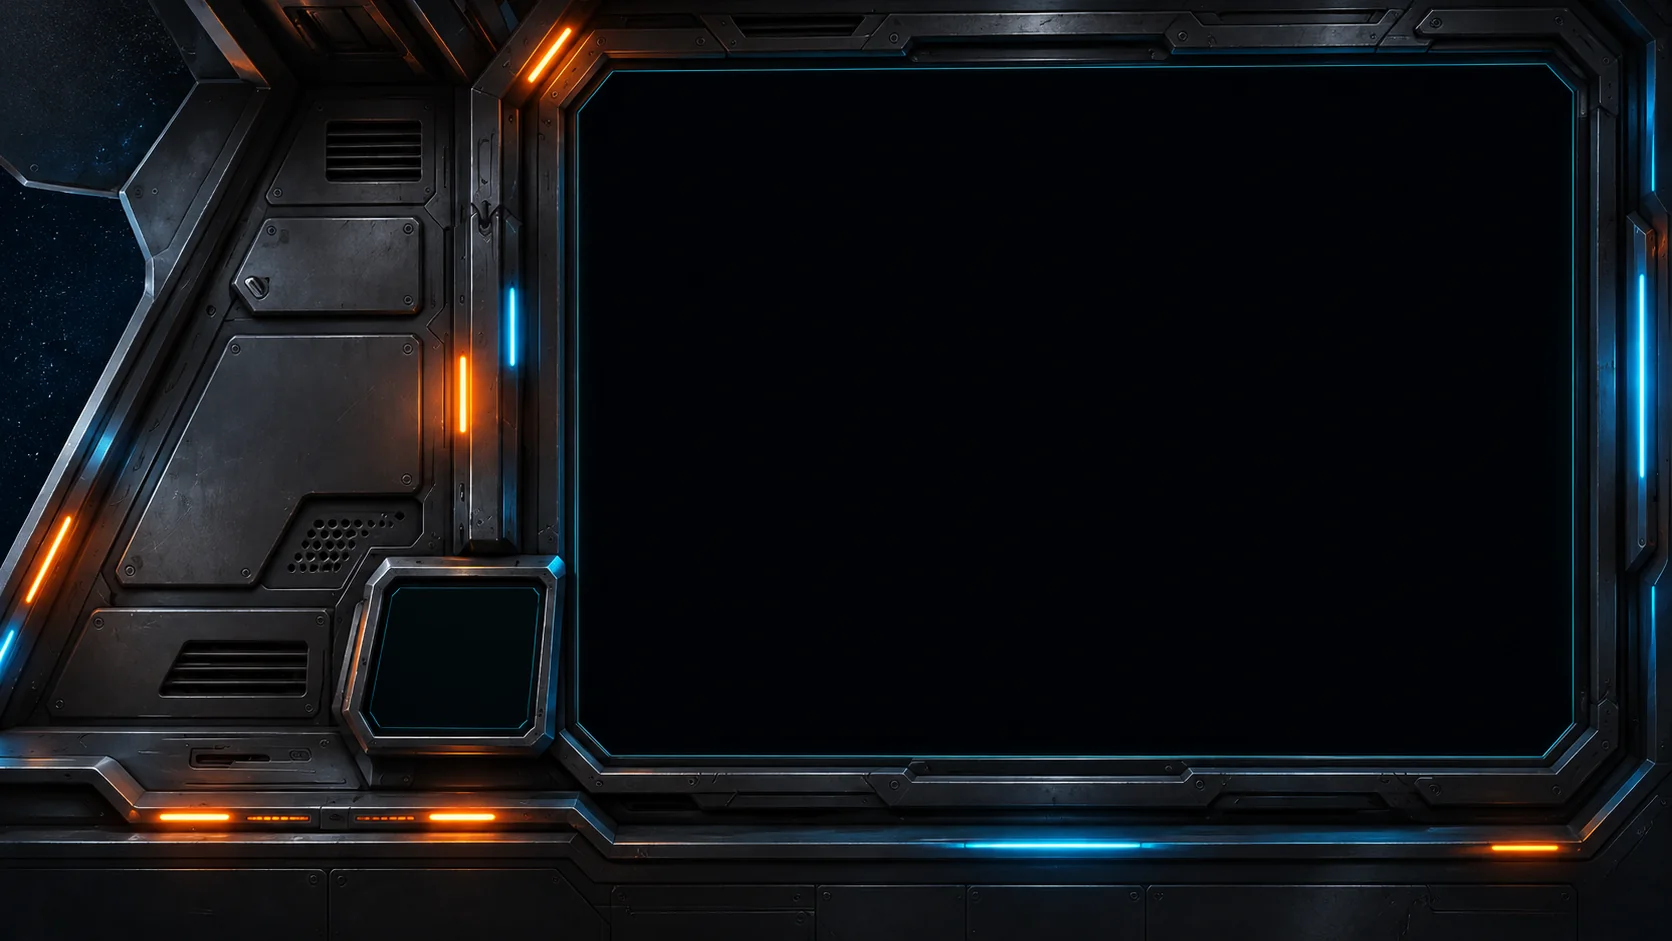
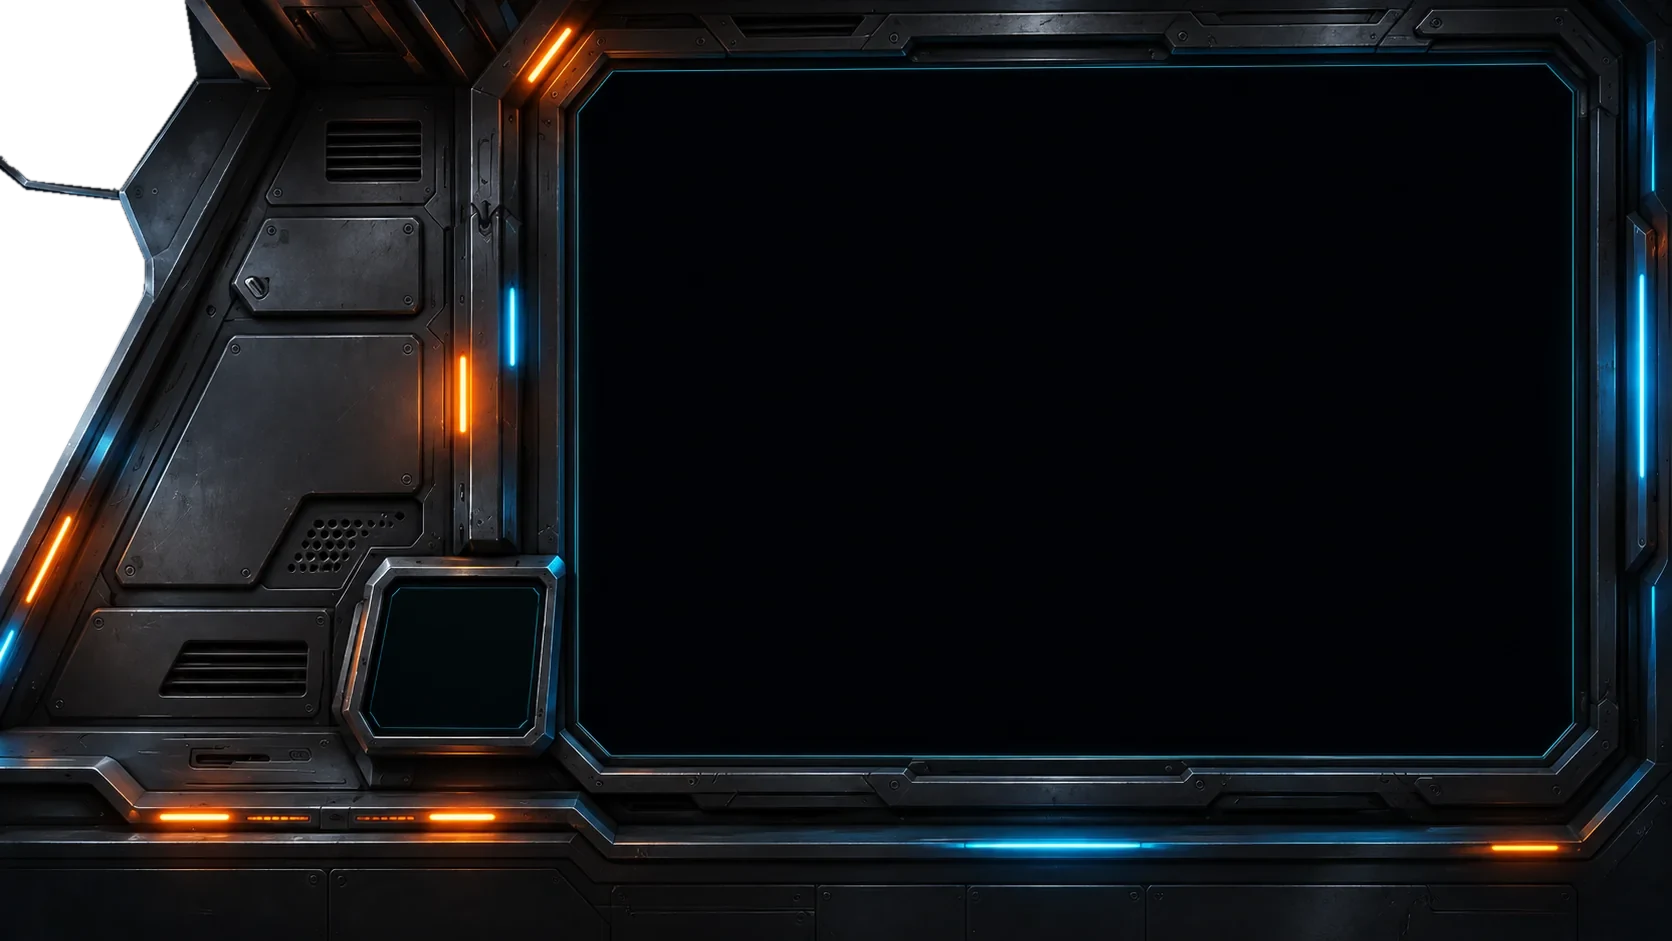
feat: the field room's side window shows the real sky from the cockpit map

Changed region(s): [[0.0, 0.0, 0.1244, 0.6164]]

diff --git a/frontend/components/Field.tsx b/frontend/components/Field.tsx
@@ -1,5 +1,5 @@
 "use client";
-import { Component, useEffect, useRef, useState, type PointerEvent, type ReactNode, type Ref } from "react";
+import { Component, useEffect, useRef, useState, type CSSProperties, type PointerEvent, type ReactNode, type Ref } from "react";
 import { sfx } from "@/lib/audio";
 import {
   ArrowLeft,
@@ -73,6 +73,7 @@ import {
 import FieldOverlays from "./FieldOverlays";
 import dynamic from "next/dynamic";
 import ConsoleSelect from "./ConsoleSelect";
+import type { SkySnapshot } from "./Sky";
 import EpochDiffTriplet from "./science/EpochDiffTriplet";
 import ModelsAndMetricsPanel from "./science/ModelsAndMetricsPanel";
 import RgbCompositeView from "./science/RgbCompositeView";
@@ -130,6 +131,7 @@ export default function Field({
   powered = true,
   initialSize = "medium",
   initialEpoch = 0,
+  skyBackdrop = null,
 }: {
   query: Query;
   target: Target | null;
@@ -148,6 +150,13 @@ export default function Field({
    * turns towards or away from it; switching it on plays the boot sequence.
    */
   powered?: boolean;
+  /**
+   * A still of the cockpit's live sky map. The room art's side window is cut out, so this sky
+   * shows through it, mirrored: its right edge (where the cockpit view ends) meets the room's
+   * left edge, and the space carries on round the corner as the camera turns. Without it (a
+   * field opened from a link, no map yet) the painted starfield stays.
+   */
+  skyBackdrop?: SkySnapshot | null;
   /** Field size and epoch index to open first (from a shared link). */
   initialSize?: string;
   initialEpoch?: number;
@@ -547,6 +556,20 @@ export default function Field({
   return (
     <section className={s.scene} data-console="field" aria-labelledby="field-title">
       <div className={s.stage}>
+        <div
+          className={s.space}
+          aria-hidden="true"
+          data-live={skyBackdrop ? "" : undefined}
+          style={
+            skyBackdrop
+              ? ({
+                  "--sky": `url("${skyBackdrop.url}")`,
+                  "--sky-w": `${skyBackdrop.width}px`,
+                  "--sky-h": `${skyBackdrop.height}px`,
+                } as CSSProperties)
+              : undefined
+          }
+        />
         <img className={s.room} src="/panels/console-bg.webp" alt="" aria-hidden="true" draggable={false} />
         {/* The wall tablet shows the observed object as a spinning 3D model (an illustration). */}
         <StarHologram target={target} reduced={reduced} />

diff --git a/frontend/components/Nebo.tsx b/frontend/components/Nebo.tsx
@@ -13,7 +13,7 @@ import Cockpit from "./Cockpit";
 import ChatPanel from "./ChatPanel";
 import { GENERAL_ROOM } from "@/lib/chat";
 import HomeScene from "./HomeScene";
-import type { SkyCommand, SkyLayers, SkyView } from "./Sky";
+import type { SkyCommand, SkyLayers, SkySnapshot, SkyView } from "./Sky";
 import { launchWarp, warp } from "@/lib/warp";
 import NeboBoot from "./NeboBoot";
 const Sky = dynamic(() => import("./Sky"), {
@@ -31,6 +31,9 @@ export default function Nebo() {
     [prefs, setPrefs] = useState(defaults),
     [loaded, setLoaded] = useState(false),
     [systemReduced, setSystemReduced] = useState(false);
+  // A still of the live sky map, shown through the analysis room's side window.
+  const [skyBackdrop, setSkyBackdrop] = useState<SkySnapshot | null>(null);
+  const captureSky = useRef<(() => Promise<SkySnapshot | null>) | null>(null);
   const [targets, setTargets] = useState<Target[]>([]),
     [catalogError, setCatalogError] = useState(""),
     [catalogLoading, setCatalogLoading] = useState(false),
@@ -222,6 +225,11 @@ export default function Nebo() {
   }
   const go = contextSafe((destination: View) => {
     if (departing.current || destination === view || turn) return;
+    // The analysis room's side window looks out on the same sky the cockpit was showing: take a
+    // still of the live map now, before the camera turns (it arrives within a frame or two).
+    if (view === "Explore" && destination === "Field") {
+      void captureSky.current?.().then((still) => still && setSkyBackdrop(still));
+    }
     const motion =
       loaded && !reduced && !matchMedia("(prefers-reduced-motion: reduce)").matches;
     // Cockpit ⇄ analysis screen is one room: the camera turns instead of cutting.
@@ -453,6 +461,7 @@ export default function Nebo() {
                 initialEpoch={link?.query === query ? link.epoch : undefined}
                 speed={prefs.speed}
                 reduced={reduced}
+                skyBackdrop={skyBackdrop}
               />
             )}
           </>
@@ -481,6 +490,7 @@ export default function Nebo() {
                 />
               )}
               <Sky
+                onCapture={(capture) => (captureSky.current = capture)}
                 targets={targets}
                 selected={selected}
                 coordinates={skyCoordinates}

diff --git a/frontend/components/Sky.tsx b/frontend/components/Sky.tsx
@@ -17,7 +17,11 @@ type Viewer = {
   getRaDec: () => [number, number];
   showCooGrid: () => void;
   hideCooGrid: () => void;
+  // aladin.js 3.9: renders the HiPS layers (plus the reticle, and the logo unless logo: false).
+  getViewDataURL: (options: { format?: string; logo?: boolean }) => Promise<string>;
 };
+/** A still of the sky map as the cockpit shows it, with the map's on-screen size in CSS px. */
+export type SkySnapshot = { url: string; width: number; height: number };
 /** What the map is showing right now: its centre and horizontal field of view, in degrees. */
 export type SkyView = { ra: number; dec: number; fov: number };
 export type SkyLayers = { markers: boolean; grid: boolean };
@@ -43,6 +47,7 @@ export default function Sky({
   layers,
   onSelect,
   onView,
+  onCapture,
 }: {
   targets: Target[];
   selected: Target | null;
@@ -51,6 +56,11 @@ export default function Sky({
   layers: SkyLayers;
   onSelect: (t: Target) => void;
   onView: (view: SkyView) => void;
+  /**
+   * Hands the page a way to take a still of the real sky map (for the analysis room's side
+   * window); called with null while the map is not ready.
+   */
+  onCapture?: (capture: (() => Promise<SkySnapshot | null>) | null) => void;
 }) {
   const host = useRef<HTMLDivElement>(null),
     fieldOfView = useRef(180),
@@ -70,6 +80,23 @@ export default function Sky({
     [retry, setRetry] = useState(0);
   callback.current = onSelect;
   viewCallback.current = onView;
+  const captureCallback = useRef(onCapture);
+  captureCallback.current = onCapture;
+  useEffect(() => {
+    if (!ready) return;
+    const take = async (): Promise<SkySnapshot | null> => {
+      const node = host.current;
+      if (!viewer.current || !node) return null;
+      try {
+        const url = await viewer.current.getViewDataURL({ format: "image/jpeg", logo: false });
+        return { url, width: node.clientWidth, height: node.clientHeight };
+      } catch {
+        return null; // No still: the room keeps its painted window.
+      }
+    };
+    captureCallback.current?.(take);
+    return () => captureCallback.current?.(null);
+  }, [ready]);
   useEffect(() => {
     let cancelled = false;
     setError(false);

diff --git a/frontend/components/field.module.css b/frontend/components/field.module.css
@@ -34,6 +34,25 @@
   user-select: none;
   pointer-events: none;
 }
+/*
+ * What is seen through the room art's side window (cut out of console-bg.webp). Framed like
+ * .room so the painted fallback (console-bg-space.webp, the original art) lines up exactly.
+ */
+.space {
+  position: fixed;
+  inset: 0;
+  pointer-events: none;
+  background: #020509 url("/panels/console-bg-space.webp") 60% 50% / cover no-repeat;
+}
+/*
+ * Live: a still of the cockpit's SPHEREx sky map at its on-screen scale, mirrored so the edge
+ * where the cockpit view ends (its right edge) sits at the room's left edge. The two walls meet
+ * there while the camera turns, so the space carries on round the corner.
+ */
+.space[data-live] {
+  transform: scaleX(-1);
+  background: #000 var(--sky) right top / var(--sky-w) var(--sky-h) no-repeat;
+}
 
 /* ---------- Screen (shared) ---------- */
 .screen {

diff --git a/frontend/README.md b/frontend/README.md
@@ -23,6 +23,8 @@ The sky explorer has a public chat (top-left key): one room per catalogue object
 
 In the observation room, the wall tablet shows the observed object as a spinning 3D model (`components/StarHologram.tsx`). It is an illustration from the object's type and temperature, not SPHEREx data, and it says so on screen.
 
+The room's side window looks out on the real sky: `public/panels/console-bg.webp` has its glass cut out (alpha), and behind it `Field` shows a still of the cockpit's live SPHEREx map (`Sky` → `getViewDataURL`, taken when *View images* is pressed), at the cockpit's scale and mirrored so the cockpit's right edge meets the room's left edge: the space carries on round the corner as the camera turns. A field opened from a link (no map yet) shows the original painted window (`console-bg-space.webp`).
+
 Playback starts paused and stops when the tab is hidden; the blink speed is chosen in the field console. The system reduced-motion setting turns off every animation. Searches use ICRS degrees, and the viewer keeps the detector across epochs.
 
 The landscape is a decorative image generated for Nebo. The Barlow Condensed and IBM Plex fonts are served locally; their OFL licenses are included in `public/fonts`.

diff --git a/docs/architecture.md b/docs/architecture.md
@@ -548,6 +548,10 @@ Found while writing this document (2026-11-15); fix them and strike them here.
 
 Newest first. One line per change that affects this document.
 
+- **2026-11-15** — The field room's side window shows the real sky: a still of the cockpit's
+  Aladin map (`getViewDataURL`, taken on *View images*) behind the cut-out glass of
+  `console-bg.webp`, mirrored to continue the cockpit view round the corner; the painted window
+  (`console-bg-space.webp`) stays as the fallback for fields opened from a link. Frontend only.
 - **2026-11-15** — Contamination flags per epoch: `/timeline` epoch `quality` adds
   `center_flags` (SPHEREx FLAGS bit name → frames whose centre pixel carries it, decoded from the
   already stored `flags_bitmask_center`) and `center_flags_checked_frames`. The field viewer lists
